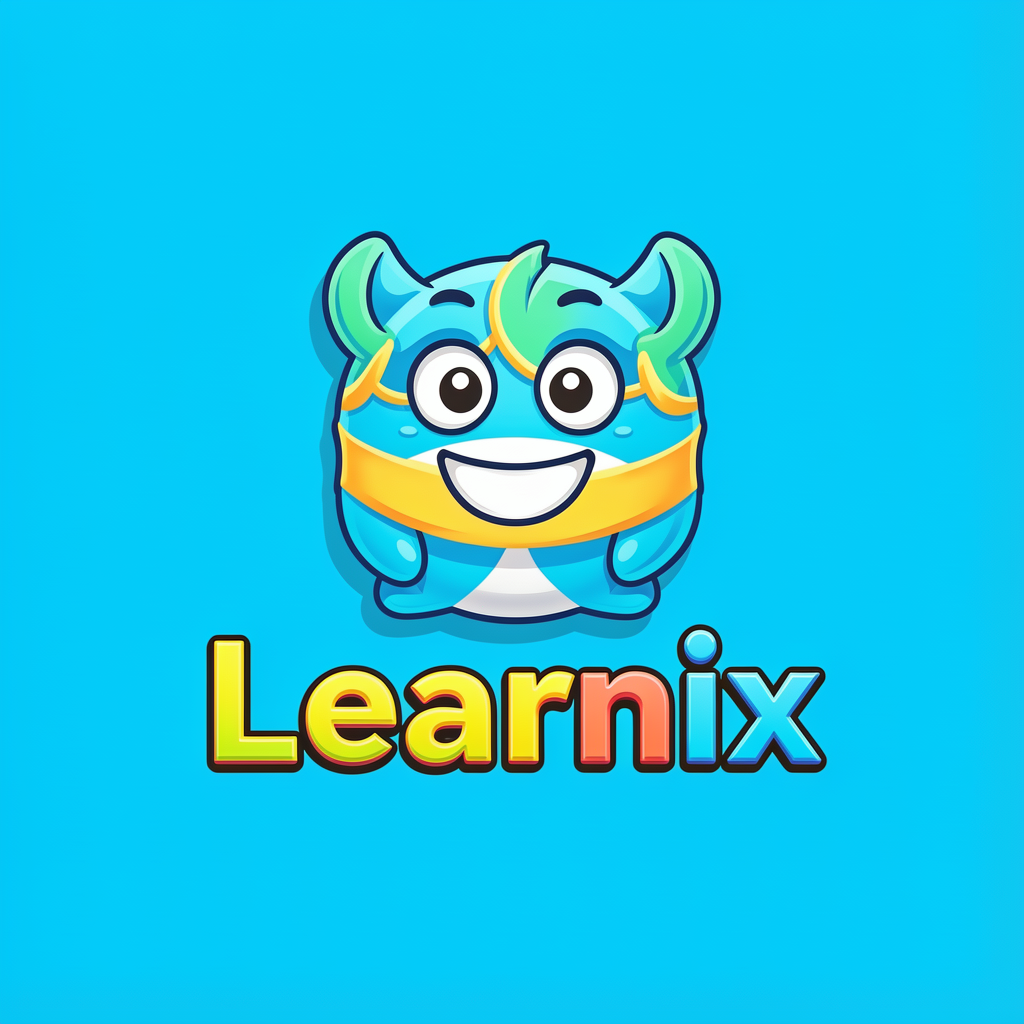
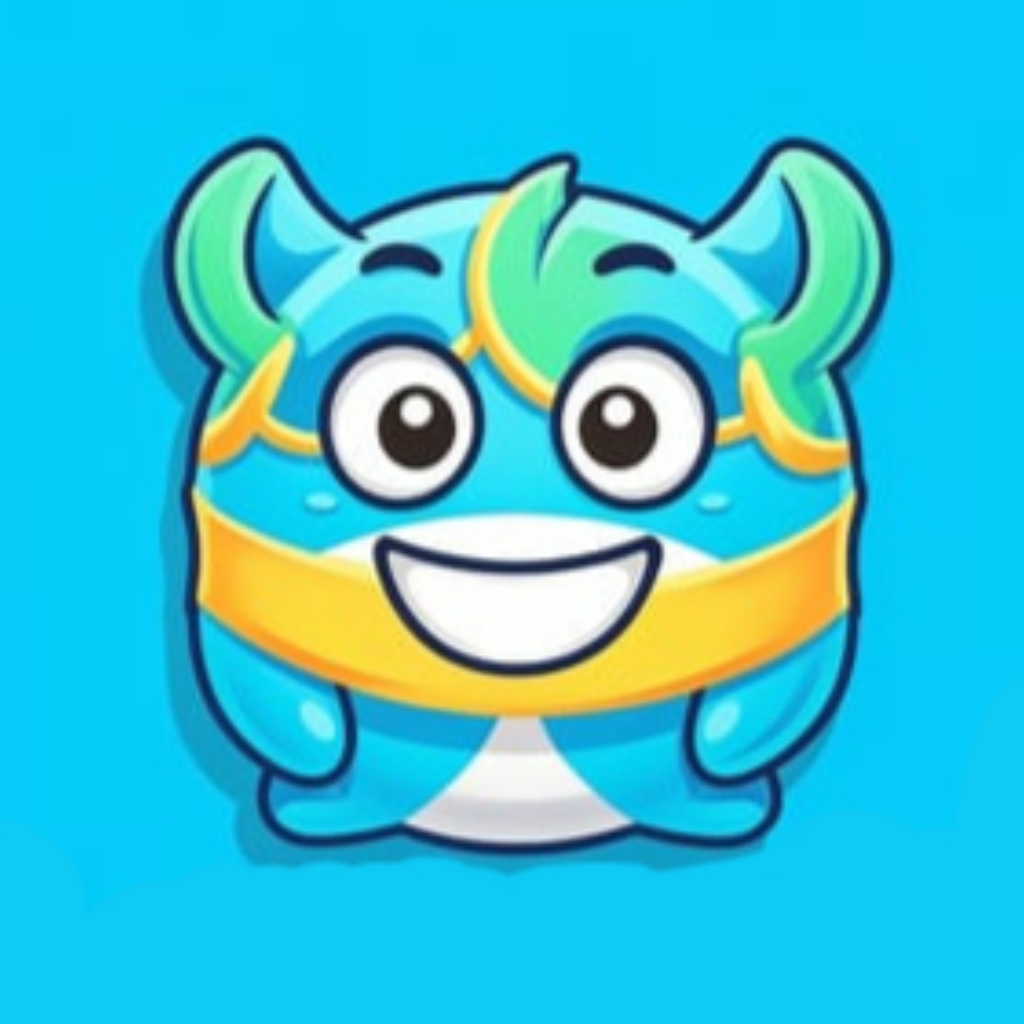
feat

diff --git a/app.config.ts b/app.config.ts
@@ -21,6 +21,7 @@ export default ({ config }: ConfigContext): ExpoConfig => ({
     backgroundColor: "#ffffff",
   },
   ios: {
+    icon: "./assets/icon.png",
     supportsTablet: true,
     bundleIdentifier: "com.learnix.uz",
     buildNumber: "1",
@@ -43,7 +44,7 @@ export default ({ config }: ConfigContext): ExpoConfig => ({
   android: {
     adaptiveIcon: {
       foregroundImage: "./assets/adaptive-icon.png",
-      backgroundColor: "#01AEF9",
+      backgroundColor: "#05CBFA",
     },
     package: "com.learnix.uz",
     versionCode: 1,
